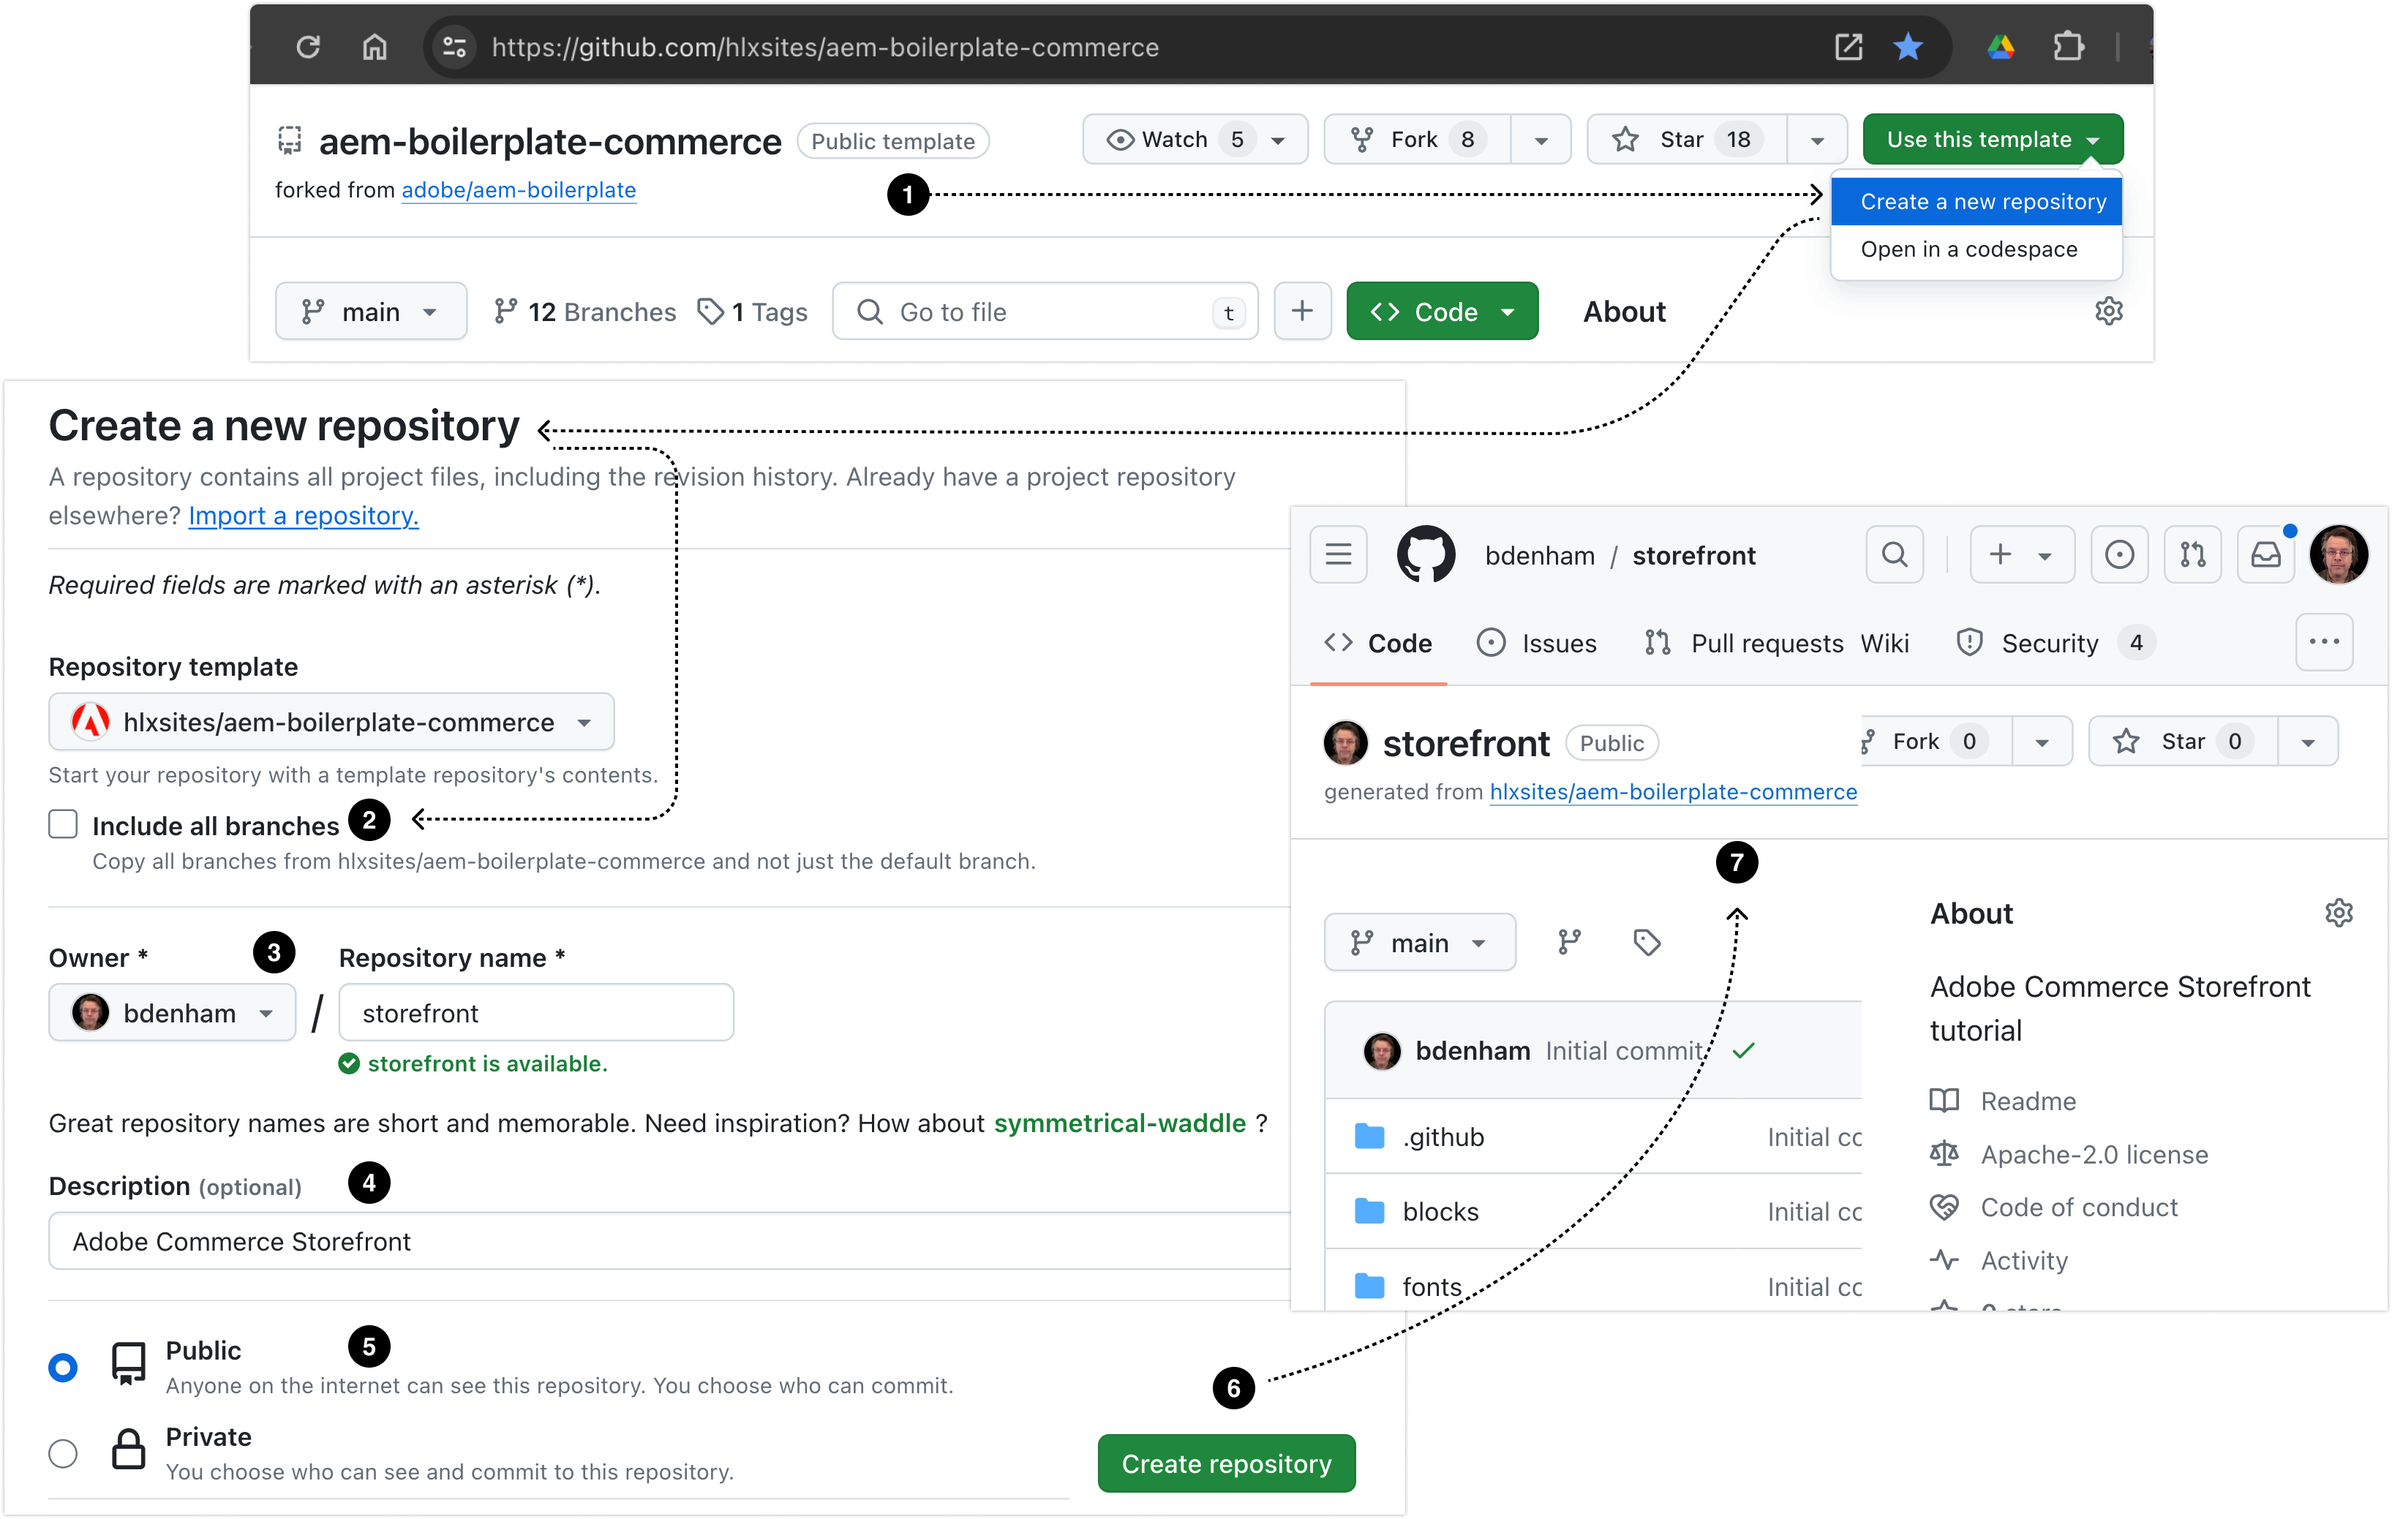
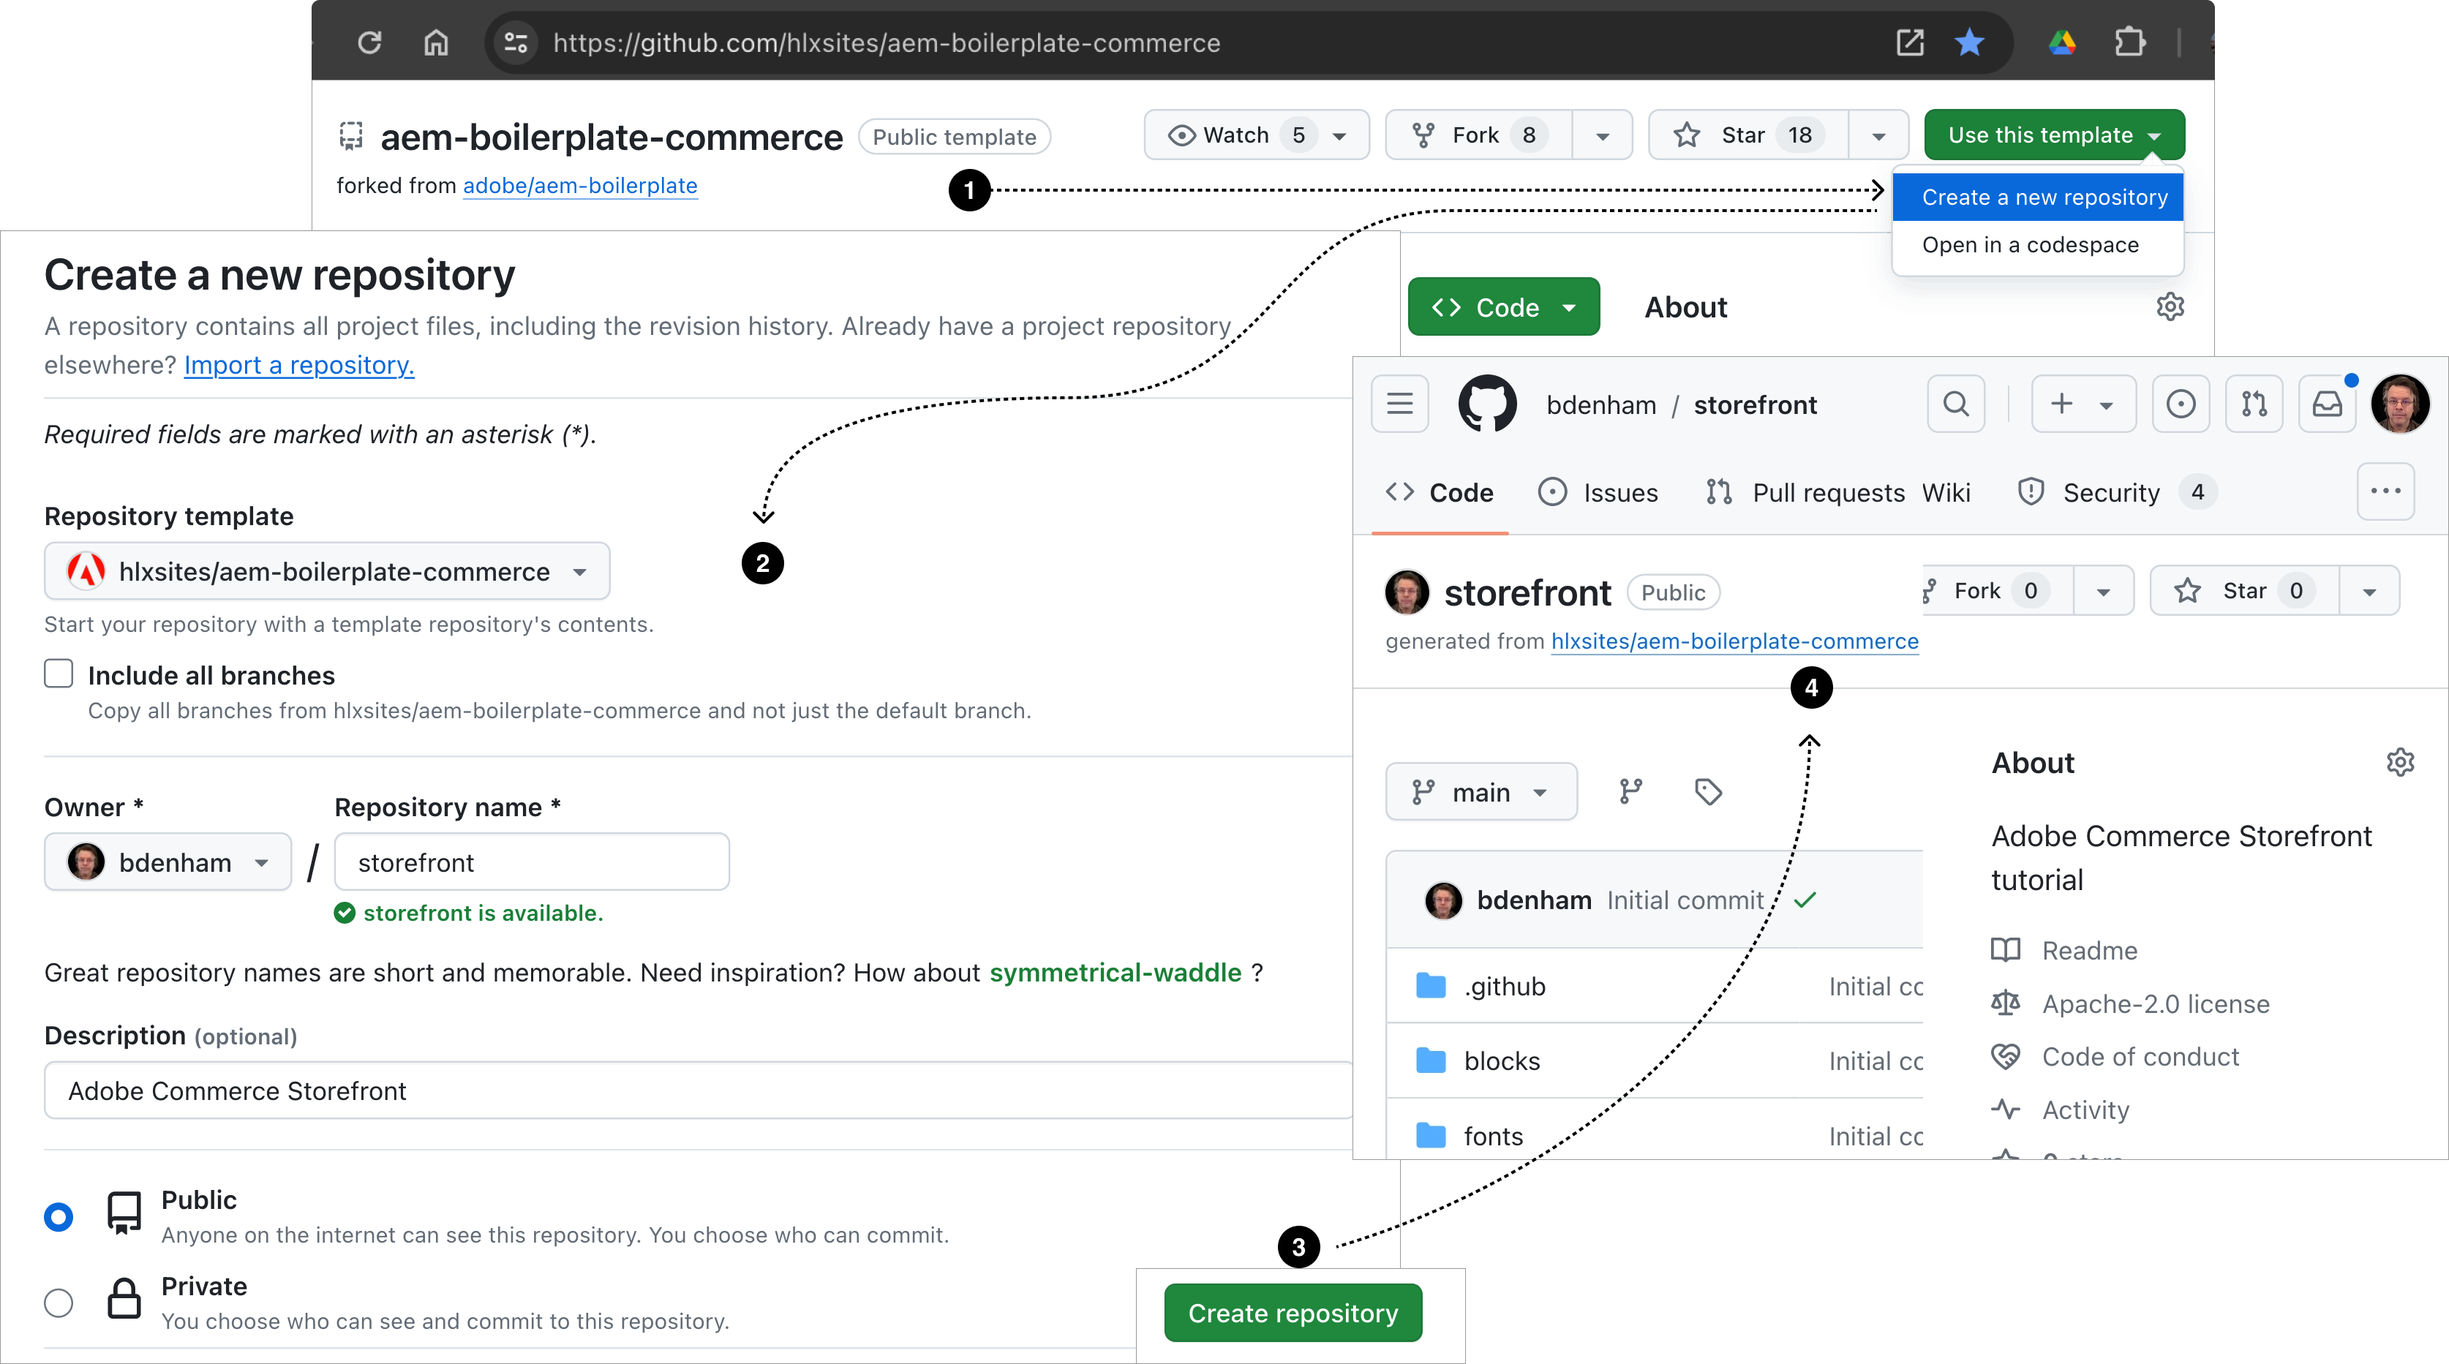
fix: walkthrough fixes for create your storefront

diff --git a/src/styles/custom.css b/src/styles/custom.css
@@ -60,16 +60,14 @@
 
   --sl-text-body: var(--sl-text-base);
   --sl-text-body-sm: var(--sl-text-xs);
-  --sl-text-code: var(--sl-text-sm);
-  --sl-text-code-sm: var(--sl-text-xs);
   --sl-text-h1: var(--sl-text-4xl);
   --sl-text-h2: var(--sl-text-2xl);
   --sl-text-h3: var(--sl-text-xl);
   --sl-text-h4: var(--sl-text-lg);
   --sl-text-h5: var(--sl-text-base);
 
-  --sl-text-code: var(--sl-text-sm);
-  --sl-text-code-sm: var(--sl-text-xs);
+  --sl-text-code: var(--sl-text-base);
+  --sl-text-code-sm: var(--sl-text-sm);
 
   --sl-line-height: 1.5;
   --sl-line-height-headings: 1.25;
